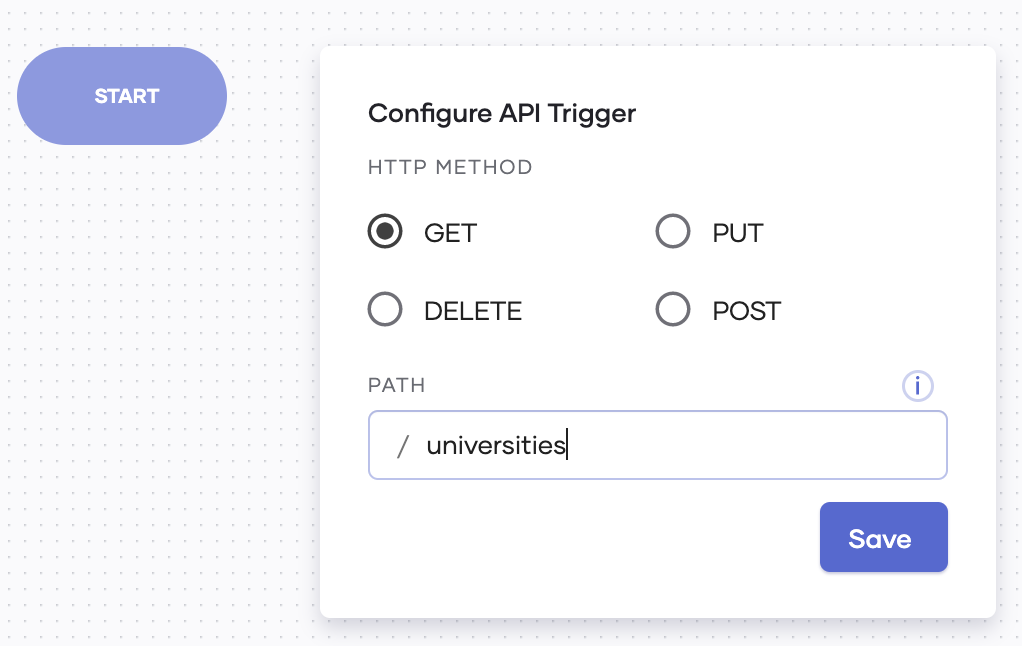
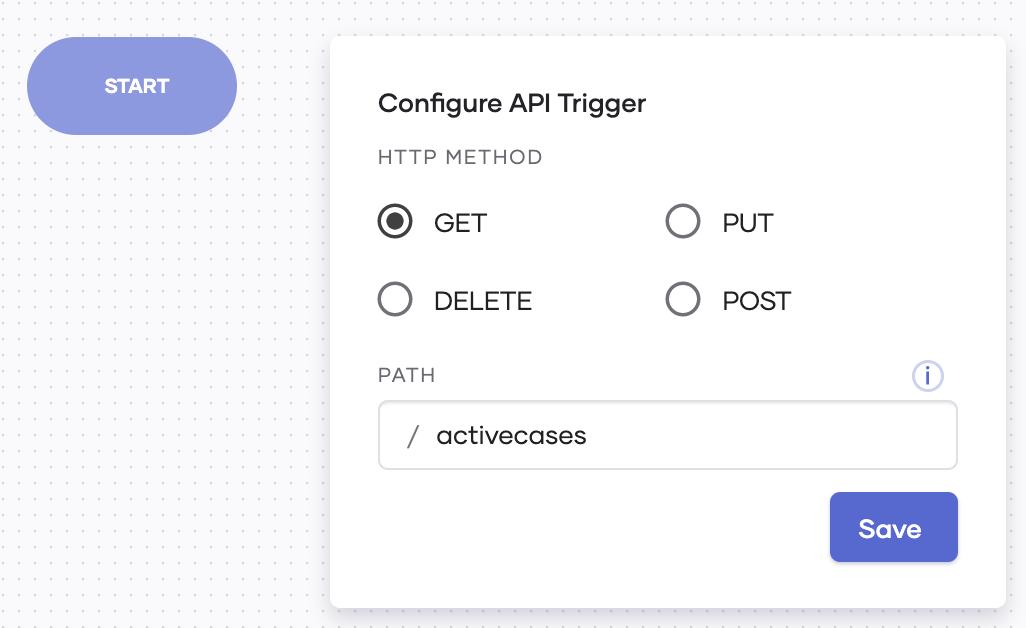
Add the initial content for Create Your First Choreo Service.

diff --git a/en/docs/services/create-your-first-service.md b/en/docs/services/create-your-first-service.md
@@ -1,6 +1,6 @@
 # Create Your First Choreo Service
 
-To learn how to create a Choreo service, let's try a simple scenario. In this example, you are creating a service that consumes a public API that lists all the universities in a specified country, testing it, deploying it and then observing its performance.
+To learn how to create a Choreo service, let's try a simple scenario. In this example, you are creating a service that consumes a public API that fetches the current active COVID-19 cases in a specified country, testing it, deploying it and then observing its performance.
 
 ## Step 1: Create the Choreo service
 
@@ -14,9 +14,9 @@ To create the Choreo service, follow the procedure below:
     
 2. In the **Services** page, click **Create**.
 
-3. Under **Create with Choreo**, enter `FindUniversity` as the name of your Choreo service.
+3. Under **Create with Choreo**, enter `covid-stats` as the name of your Choreo service.
 
-4. In the **Configure API Trigger** form, select **GET** as the HTTP method, and enter `universities` as the relative path from host.
+4. In the **Configure API Trigger** form, select **GET** as the HTTP method, and enter `activecases` as the relative path from host.
 
     ![Resource Configuration](assets/img/services/configure-api-trigger.png)
     
@@ -26,7 +26,7 @@ To create the Choreo service, follow the procedure below:
 
     1. Click **Connections**.
 
-    2. In the **New HTTP Connection** form, enter `http://universities.hipolabs.com` as the URL and select **Get** as the operation.
+    2. In the **New HTTP Connection** form, enter `https://api.covid19api.com` as the URL and select **Get** as the operation.
     
         ![New HTTP Connection](assets/img/services/new-http-connection.png)
         
@@ -38,25 +38,84 @@ To create the Choreo service, follow the procedure below:
         
     4. Open the code view of the application by clicking the **<>** icon to the top right of the page.
     
-        Update the `http:Response getResponse = <http:Response>check httpEndpoint->get("/");` line as `http:Response getResponse = <http:Response>check httpEndpoint->get("/search?country=United+States");`. This specifies that the GET statement in the HTTP connection invokes the public API to search for all the universities in United States.
+        Update the `http:Response getResponse = <http:Response>check httpEndpoint->get("/");` line as `http:Response getResponse = <http:Response>check httpEndpoint->get("/total/country/united-states");`. This specifies that the GET statement in the HTTP connection invokes the public API to fetch the current number of active COVID-19 in United States.
         
-    5. Click **Save & Done**. Now your API trigger is connected to the public API that lists all the universities of the selected country.
+    5. Click **Save & Done**. Now your API trigger is connected to the public API that fetches the active COVID-19 cases in the selected country.
     
-6. To add a new statement, click on the **+** icon below the JSON payload. 
+6. To cast all the data retrieved via the API connected to the application before further processing, add a new custom statement as follows:
 
-    ![Add New Statement](assets/img/services/add-new-statement.png)
-    
-    Then click **+** again to select the new statement you need to add.
-    
-7. In the form that appears, click **Respond**.
+    1. Click on the **+** icon below the JSON payload. 
 
-8. In the **Respond** form that appears, enter `jsonPayload` as the respond expression.
+        ![Add New Statement](assets/img/services/add-new-statement.png)
+    
+    2. Then click **+** again to select the new statement you need to add.
+    
+    3. In the form that appears, click **Custom Statement**.
 
-    ![Add Respond Expression](assets/img/services/add-respond-expression.png)
+    4. In the **Custom Statement** form that appears, enter the following two lines as the statement.
     
-    Then click **Save**.
+        ```
+        json[] jsonArray = <json[]>jsonPayload;
+        json[] response = [];
+        ```
+
+        ![Add Custom Statement](assets/img/services/custom-statement.png)
     
-9. To validate the Choreo application, click **Run & Test**. The following is logged to indicate that the service is successfully started.
+    5. Then click **Save**.
+    
+7. To filter the dates on which the active cases have exceeded 50,000, let's add a ForEach statement as follows: 
+
+    1. Click the last **+** that is visible in the low code view of the service in its current state.
+
+        ![Add Custom Statement](assets/img/services/add-to-the-service.png)
+    
+    2. In the form that appears, click **ForEach**.
+
+    3. In the **ForEach** form, enter `jsonArray` as the iterable expression.
+
+        ![Add ForEach Statement](assets/img/services/add-foreach-statement.png)
+    
+        Then click **Save**.
+    
+    4. To apply the filter mentioned, add a custom statement wuthin the ForEach statement. To do this, click the **+** just below the last ForEach statement you added.
+
+        ![Add Custom Statement After Foreach Statement](assets/img/services/add-custom-statement-after-foreach-statement.png)
+    
+    5. In the form that appears, click **Custom Statement**. Then enter the following as the statement.
+
+        ```
+        int active = <int>(check item.Active);
+        if (active > 5000) {
+        response.push(item);
+        }
+        ```
+        
+        Then click **Save**.
+    
+14. To add a respond statement so that the result of the above processing is returned as a response, click the last **+** that is visible in the low code view of the service in its current state.
+
+        ![Add Respond Statement](assets/img/services/add-respond-statement.png)
+    
+    In the **Respond** form that appears, enter the following as the respond expression.
+
+    ```
+    response
+    ```
+    
+    ![Respond Expression](assets/img/services/respond-expression.png)
+    
+Now you have completed designing your Choreo application. It looks as follows.
+
+- In the Low Code View
+
+    ![Low Code View](assets/img/services/choreo-service-low-code-view.png)
+
+- In the Code View
+
+    ![Low Code View](assets/img/services/choreo-service-code-view.png)
+
+    
+To validate the Choreo application, click **Run & Test**. The following is logged to indicate that the service is successfully started.
 
     ![Service Started Log](assets/img/services/service-started-notification.png)
     
@@ -64,7 +123,7 @@ Congratulations! You have successfully created your first Choreo service.
    
 ## Step 2: Test the Choreo service
 
-To test the `FindUniversity` Choreo application you created, follow the procedure below:
+To test the `covid-stats` Choreo application you created, follow the procedure below:
 
 1. Click the **Test** icon in the left pane.
 
@@ -74,35 +133,49 @@ To test the `FindUniversity` Choreo application you created, follow the procedur
 
 3. Click **Try it out**, and then click **Execute**.
 
-The search results for universities of United States are displayed as the server response as shown below.
+The search results for COVID-19 statistics of United States are displayed as the server response as shown below.
 
 ![Server Response](assets/img/services/server-response.png)
 
-Now you have verified that the `FindUniversity` service works as expected. Therefore, you can deploy it.
+Now you have verified that the `covid-stats` service works as expected. Therefore, you can deploy it.
 
 ## Step 3: Deploy the Choreo service
 
-To deploy the `FindUniversity` service, follow the procedure below:
+To deploy the `covid-stats` service, follow the procedure below:
 
 1. Click the **Go Live** icon in the left pane.
 
     ![Test Icon](assets/img/services/deploy-icon.png)
 
-2. To start the service, click **Start**.
+2. To deploy the service, click **Deploy**.
 
 The following message appears to indicate that the service is successfully deployed.
 
 ![Successfully Deployed Notification](assets/img/services/successfully-deployed-notification.png)
 
-Now you can observe the performance of the `FindUniversity` service.
+3. Once the service is deployed, click on the **Go Live** tab below the low code design view. Then click **://cURL** and copy the CURL command that is displayed.
+
+    ![Get cURL command](assets/img/services/copy-curl-command.png)
+    
+    Invoke the `covid-stats` service by issuing a few CURL commands using the Postman application.
+    
+    The responses are logged as shown below.
+    
+    ![covid-stats-log](assets/img/services/covid-stats-log.png)
+
+    In the Choreo Development Console, **Go Live** tab, the requests are logged as follows.
+    
+    ![Execution History](assets/img/services/execution-history.png)
+    
+To observe the `covid-stats` service by checking the statistics generated as a result of the CURL commands you issued. proceed to Step 4. 
 
 ## Step 4: Observe the Choreo service.
 
-To observe the `FindUniversity` service, click the **Observe** icon in the left panel.
+To observe the `covid-stats` service, click the **Observe** icon in the left panel.
 
 ![Test Icon](assets/img/services/observe-icon.png)
 
-The throughput and the latency of the `FindUniversity` service is visualized as follows:
+The throughput and the latency of the `covid-stats` service is visualized as follows:
 
 ![Visualization of Throughput and Latency](assets/img/services/successfully-deployed-notification.png)
 
